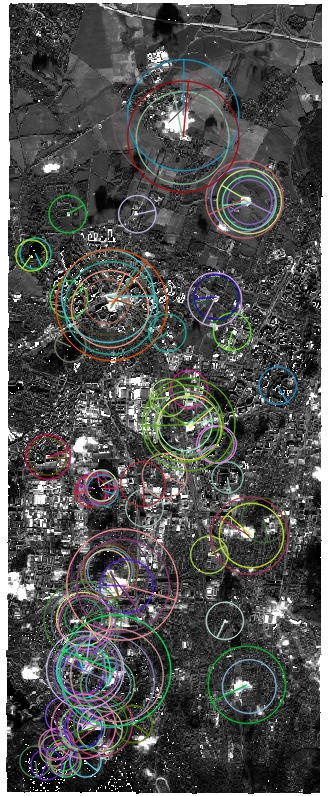
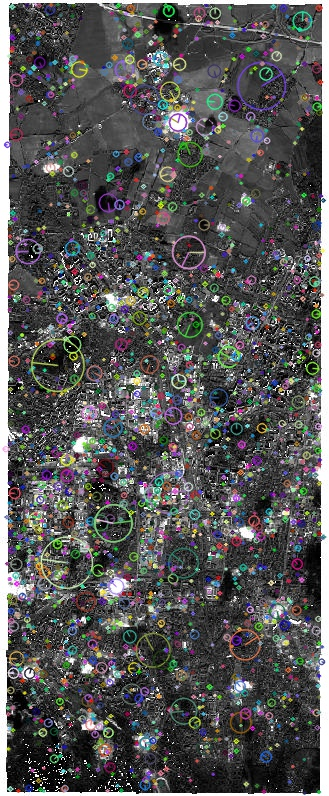
Looping through all the writeImages and Plotting

diff --git a/Task2/Task2_1_FeatureDetection.py b/Task2/Task2_1_FeatureDetection.py
@@ -4,8 +4,8 @@ Created Date : 16-Jul-21
 """
 
 import cv2
-
 import util
+from matplotlib import pyplot as plt
 
 ## SIFT Algorithm
 
@@ -18,7 +18,7 @@ gray = util.readFile_gray()
 sift = cv2.SIFT_create(nfeatures=5000)
 keyPoints, descriptors = sift.detectAndCompute(image_sift, None)
 output_featuredet_sift = cv2.drawKeypoints(gray, keyPoints, image_sift, flags=cv2.DRAW_MATCHES_FLAGS_DRAW_RICH_KEYPOINTS)
-util.writeImage(output_featuredet_sift,'1_FD_SIFT')
+#util.writeImage(output_featuredet_sift,'1_FD_SIFT')
 
 ## ORB Algorithm
 
@@ -31,4 +31,17 @@ gray = util.readFile_gray()
 orb = cv2.ORB_create(nfeatures=100)
 keyPoints, descriptors = orb.detectAndCompute(image_orb, None)
 output_featuredet_orb = cv2.drawKeypoints(gray, keyPoints, image_orb, flags=cv2.DRAW_MATCHES_FLAGS_DRAW_RICH_KEYPOINTS)
-util.writeImage(output_featuredet_orb, '1_FD_ORB')
+#util.writeImage(output_featuredet_orb, '1_FD_ORB')
+
+titles = ['1_FD_GreyOriginalImage','1_FD_SIFT','1_FD_ORB']
+images = [gray, output_featuredet_orb, output_featuredet_sift]
+
+for title,image in zip(titles,images):
+    util.writeImage(image, title)
+
+for i in range(len(titles)):
+    plt.subplot(1, 3, i+1), plt.imshow(images[i], 'gray')
+    plt.title(titles[i])
+    plt.xticks([]), plt.yticks([])
+
+plt.show()
